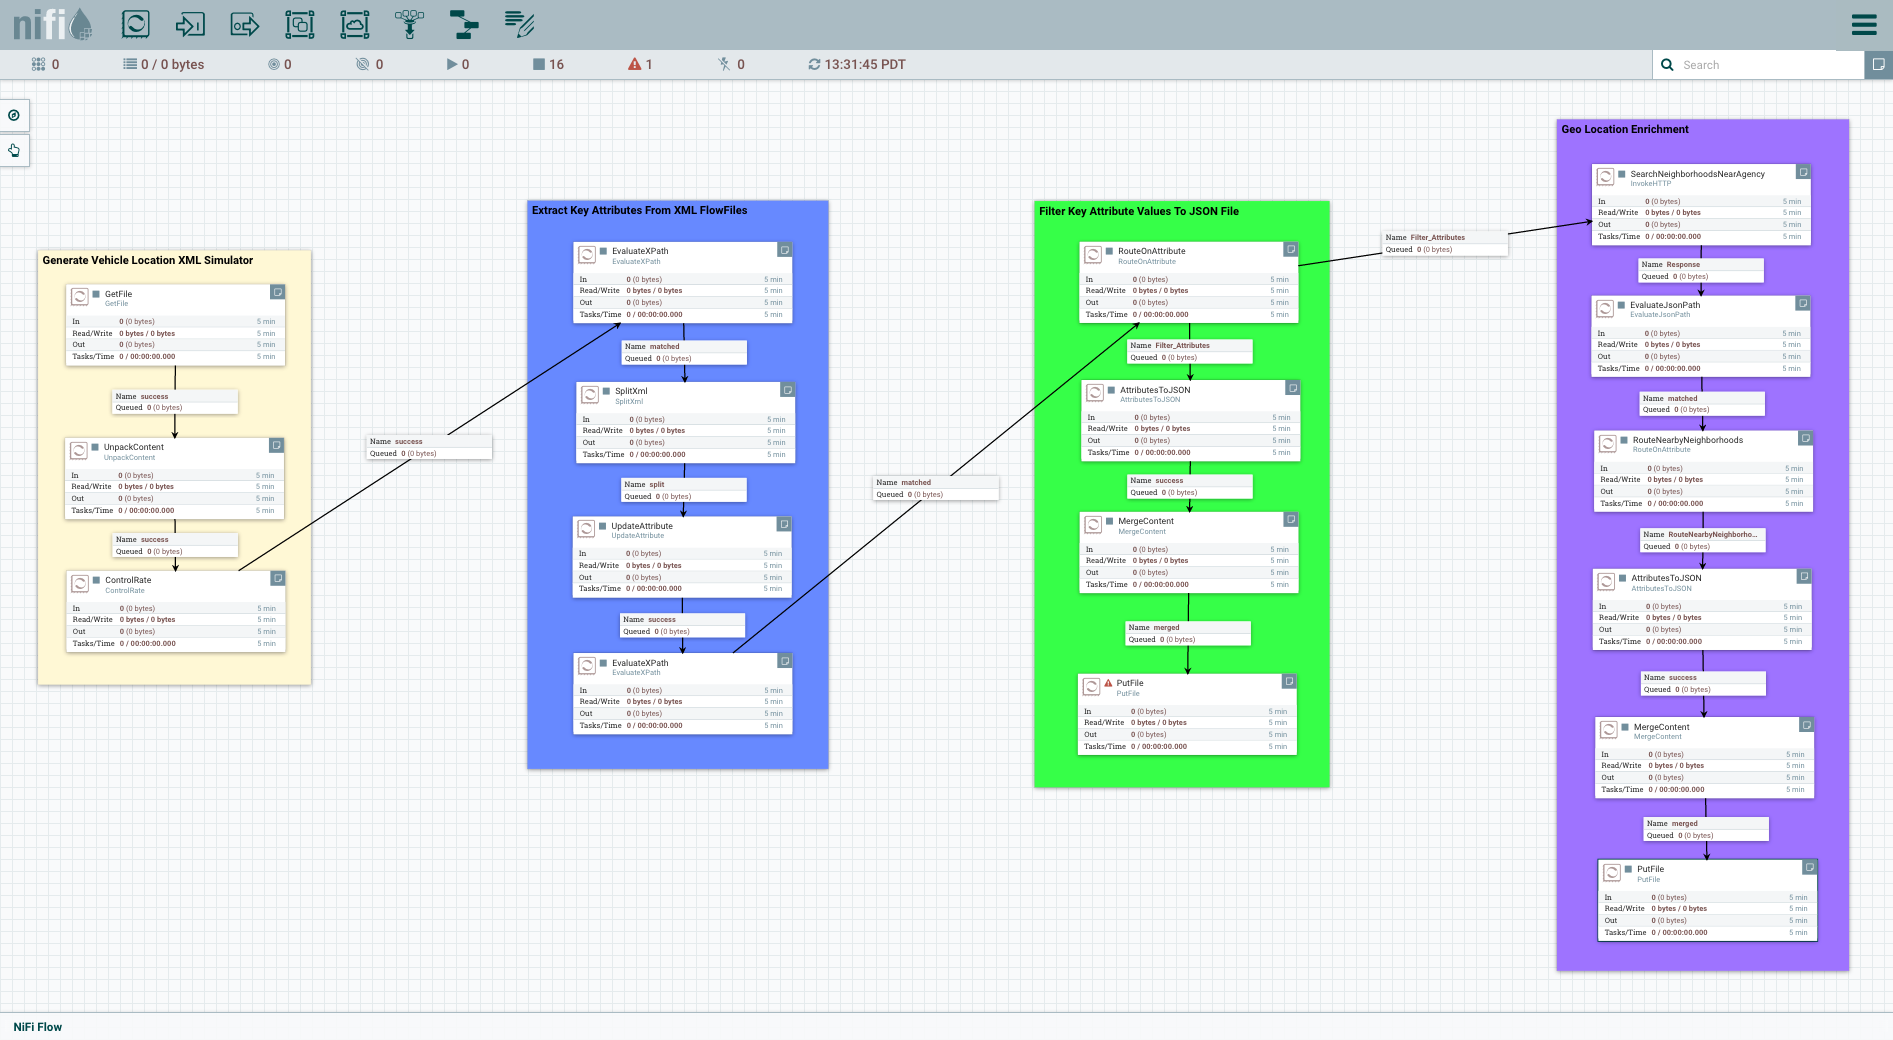
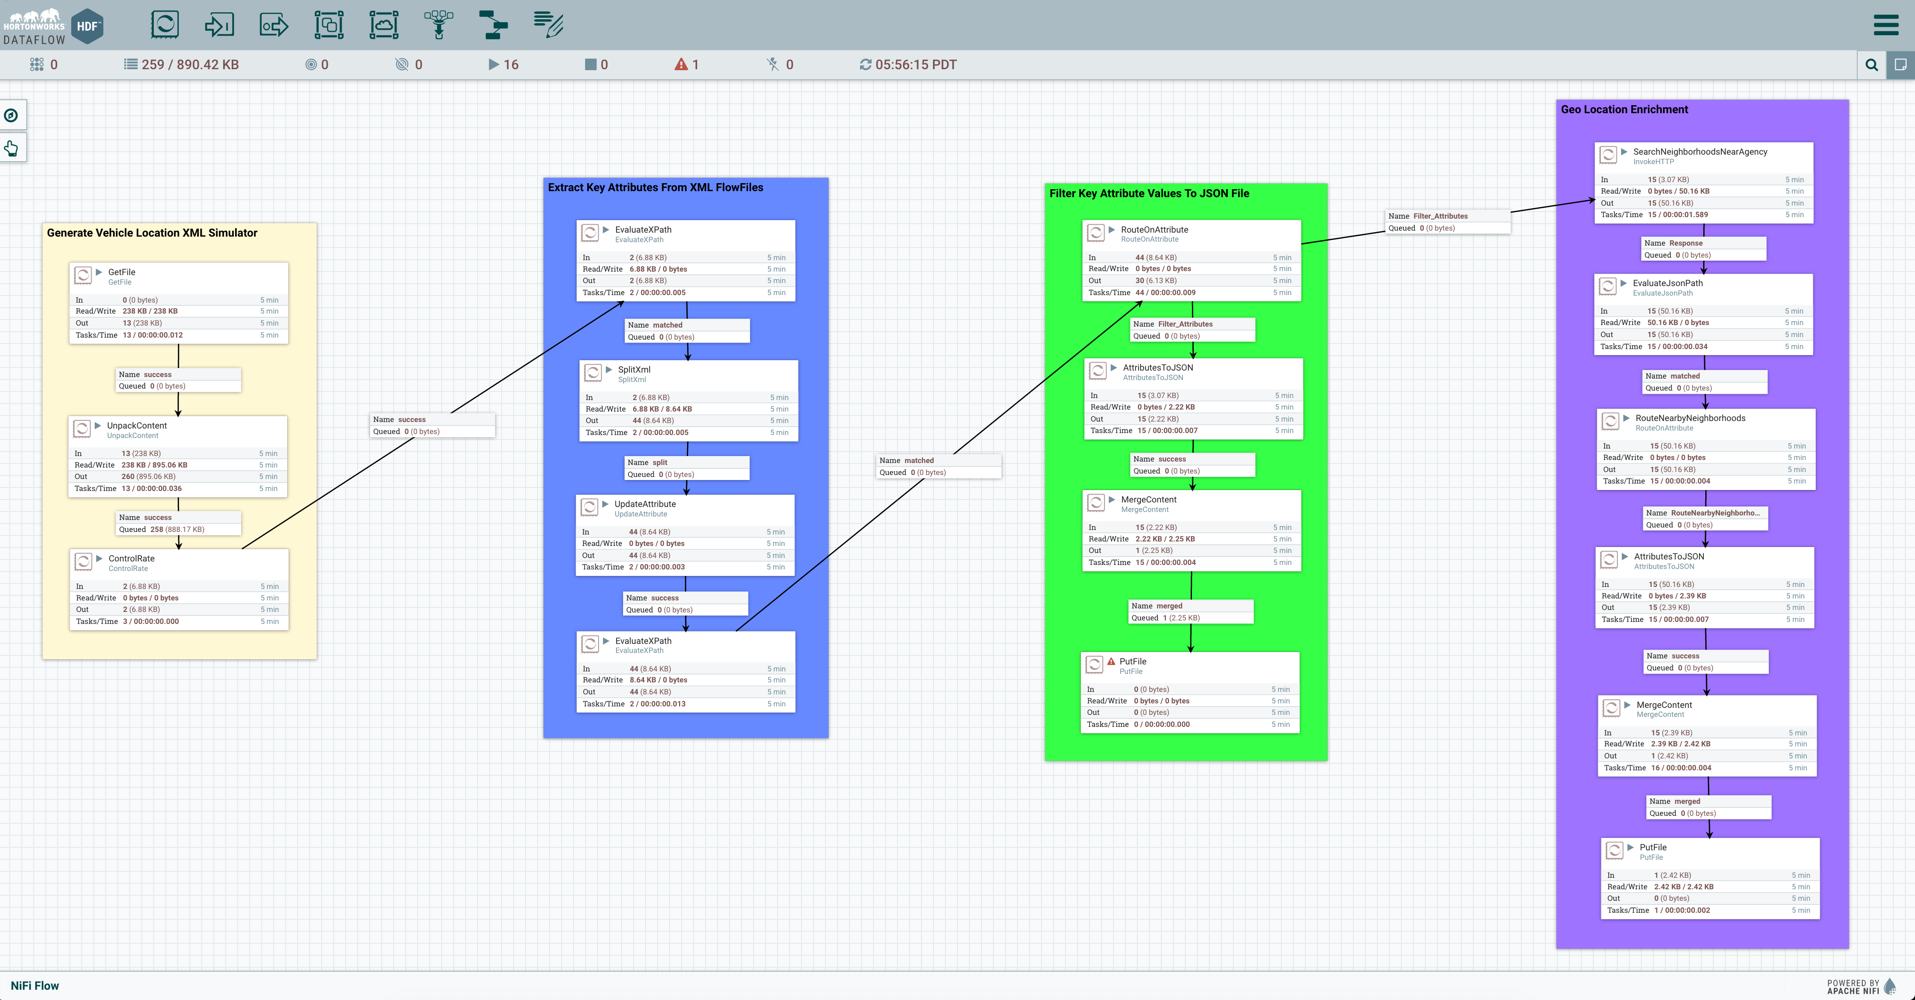
update lab 2
- added 3 new pictures

diff --git a/tutorials/hortonworks/learning-ropes-apache-nifi-tutorial-series/learning-ropes-nifi-tutorial2.md b/tutorials/hortonworks/learning-ropes-apache-nifi-tutorial-series/learning-ropes-nifi-tutorial2.md
@@ -26,14 +26,14 @@ Feel free to download the [Lab2-NiFi-Learn-Ropes.xml](https://raw.githubusercont
 - Completed Tutorial 1: Build A Simple NiFi DataFlow
 
 ## Outline
-- Google Places API
-- Step 1: Obtain API Key for NiFi to Build HTTP URL
-- Step 2: Build Geo Location Enrichment DataFlow Section
-- Step 3: Run NiFi DataFlow
-- Summary
-- Further Reading
+- [Google Places API](#google-places-api)
+- [Step 1: Obtain API Key for NiFi to Build HTTP URL](#obtain-api-key-for-flow)
+- [Step 2: Build Geo Location Enrichment DataFlow Section](#build-geo-loc-enrich)
+- [Step 3: Run NiFi DataFlow](#run-nifi-flow)
+- [Summary](#summary-tutorial2)
+- [Further Reading](#further-reading-tutorial2)
 
-## Google Places API
+## Google Places API <a id="google-places-api"></a>
 
 Google Places API Web Service returns information about places: establishments, geographic locations and prominent points of interest using HTTP requests. The Places API includes six place requests: Place Searches, Place Details, Place Add, Place Photos, Place Autocomplete and Query Autocomplete. Read more about these place requests in [Introducing the API](https://developers.google.com/places/web-service/intro).
 
@@ -43,7 +43,7 @@ What are the necessary components to use the Places API?
 - https:// protocol
 - API Key
 
-### Step 1: Obtain API Key for NiFi to Build HTTP URL
+### Step 1: Obtain API Key for NiFi to Build HTTP URL <a id="obtain-api-key-for-flow"></a>
 
 For our dataflow, our task is to enrich the data by searching for neighborhoods within proximity of a vehicle's varying location. We will retrieve two parameters from this data: name of the neighborhoods and San Francisco Muni Transit Agency. So, we will integrate Nearby Search HTTP request with NiFi.
 
@@ -90,7 +90,7 @@ https://maps.googleapis.com/maps/api/place/nearbysearch/json?location=${Latitude
 > Note: Your API Key will be different than the one in the URL above.
 
 
-### Step 2: Build Geo Location Enrichment DataFlow Section
+### Step 2: Build Geo Location Enrichment DataFlow Section <a id="build-geo-loc-enrich"></a>
 
 Six processors are needed to add geographic location enrichment to your dataflow. Each processor holds a critical role in transporting the enriched data to a destination:
 
@@ -221,7 +221,7 @@ Six processors are needed to add geographic location enrichment to your dataflow
 3\. Navigate  to the **Settings** tab, under Auto terminate relationships check the **success** checkbox. Click **Apply** button. Connect the processor to itself and when the Create Connection window appears, select **failure** checkbox.
 
 
-### Step 3: Run NiFi DataFlow
+### Step 3: Run NiFi DataFlow <a id="run-nifi-flow"></a>
 
 Now that we added geographic location enrichment dataflow section to our previous dataflow, let's run the dataflow and verify if we receive the expected results in our output directory.
 
@@ -240,11 +240,11 @@ vi 38997303004413
 ![output_geoEnrich_nearby_neighborhoods_data](/assets/learning-ropes-nifi-lab-series/lab2-geo-location-enrichment-nifi-lab-series/output_geoEnrich_nearby_neighborhoods_data.png)
 
 
-## Summary
+## Summary <a id="summary-tutorial2"></a>
 
 Congratulations! For the Geo Enrichment section of the dataflow, you learned to use InvokeHTTP to access geographic location of nearby places with Google Places Search API. You learned to add NiFi expression variables into InvokeHTTP property RemoteURL, so that the values for latitude and longitude constantly change in the URL when new FlowFiles pass through this processor. You learned to use EvaluateJsonPath similar to EvaluateXPath, except JSON Expression is used to extract JSON elements (neighborhoods_nearby & city) from a JSON structure. Now you know how to incorporate external API's into NiFi further enhance the dataflow.
 
-## Further Reading
+## Further Reading <a id="further-reading-tutorial2"></a>
 
 - [Google Places API](https://developers.google.com/places/)
 - [HTTP Protocol Overview](http://code.tutsplus.com/tutorials/http-the-protocol-every-web-developer-must-know-part-1--net-31177)
